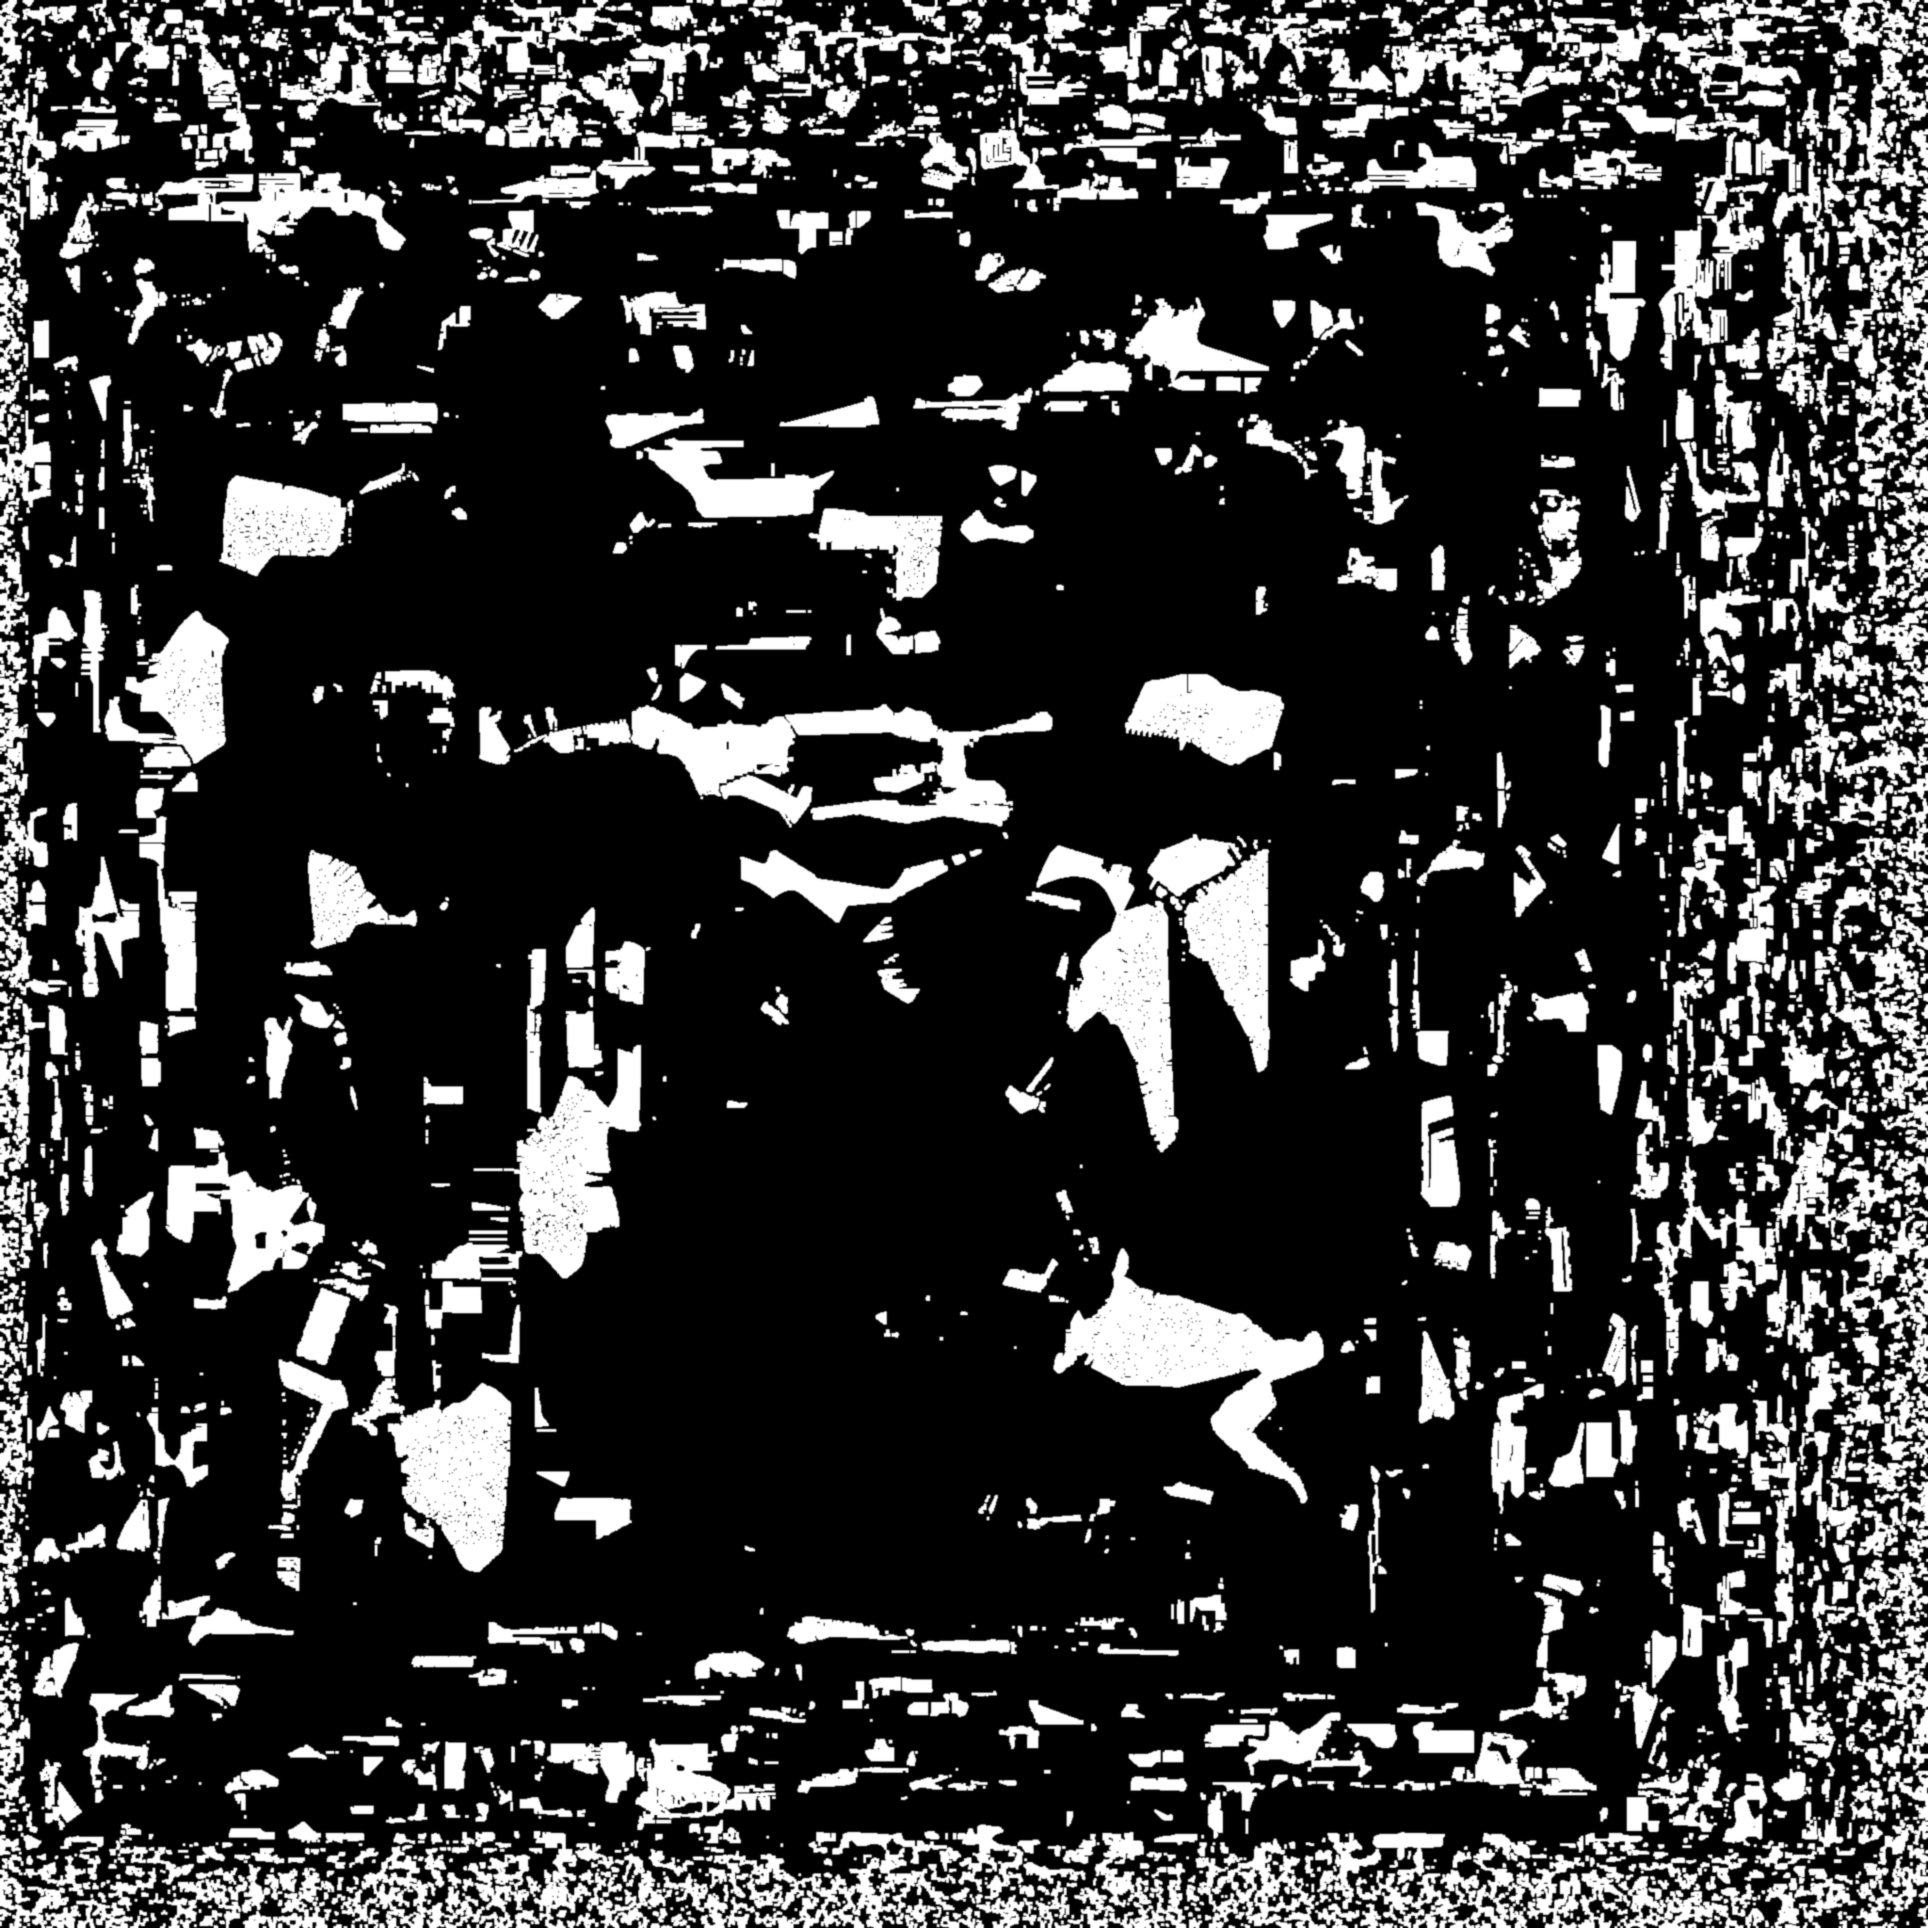
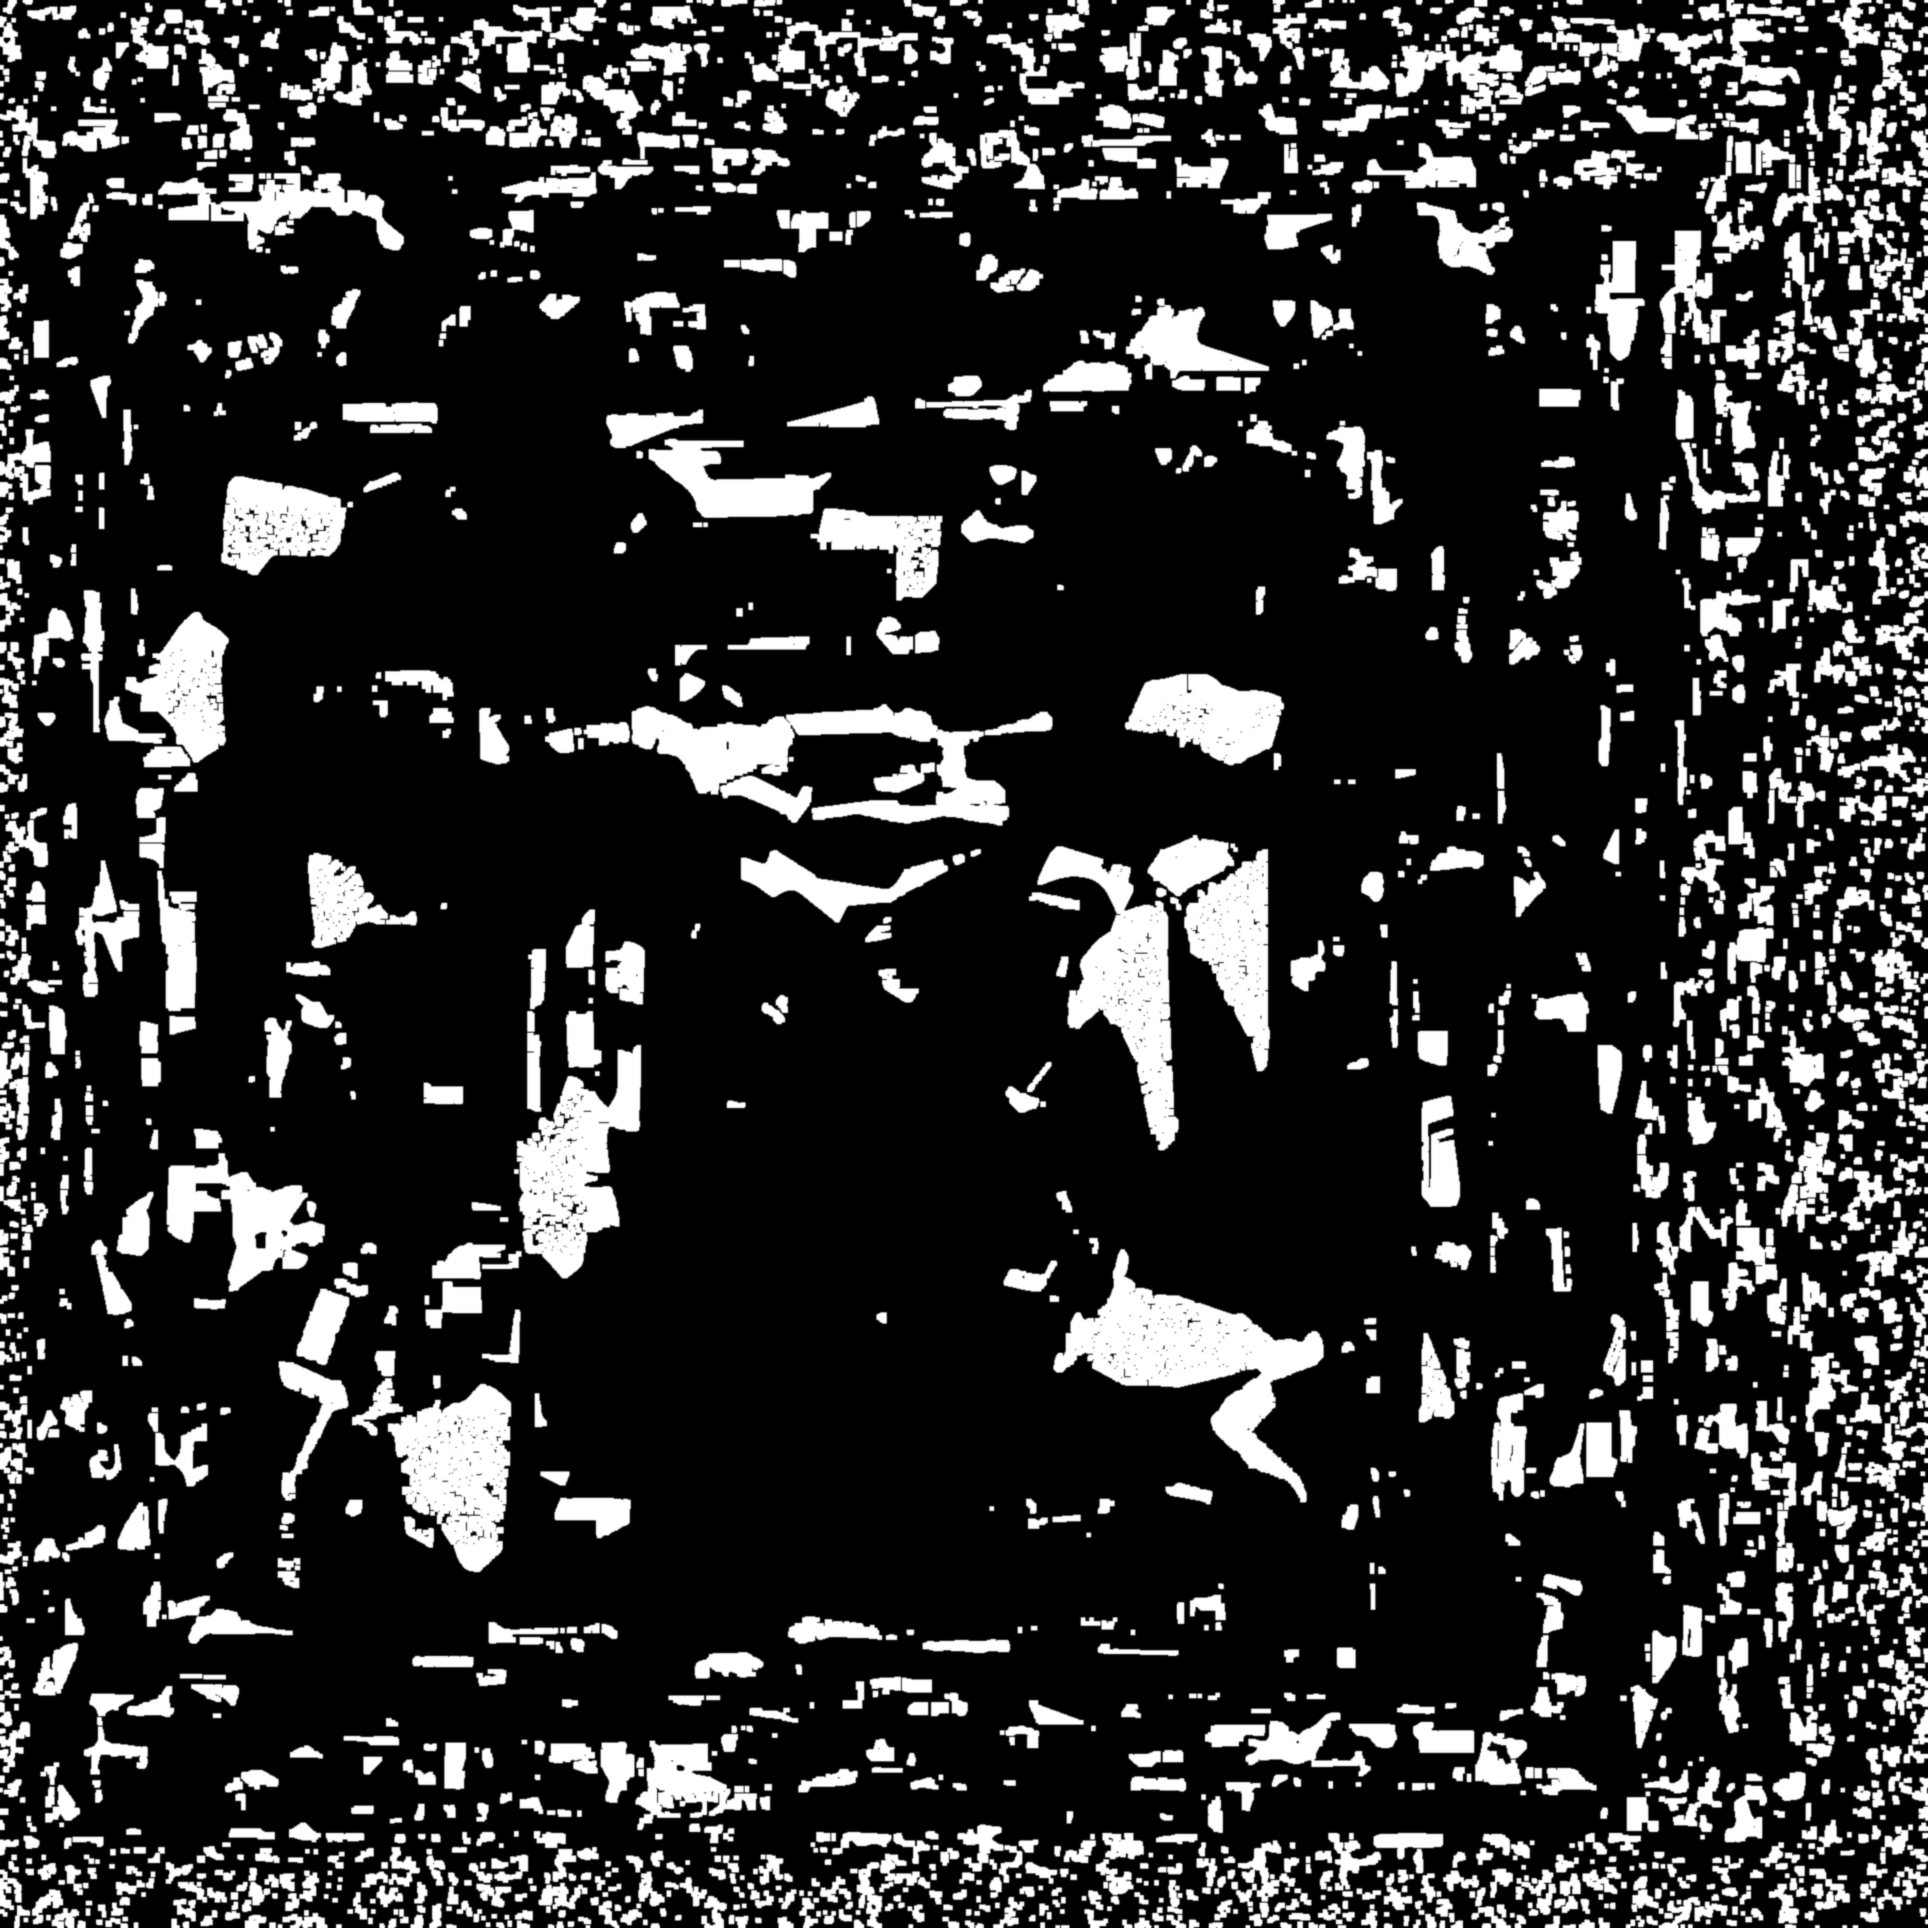
Clean up window glow and enlarge the police station
Stronger mask opening drops railings, the shader skips flat roofs and ledges,
and the station is scaled up with its sign over the compound gate.

Claude-Session: https://claude.ai/code/session_01LRvekBiu88ohufkwWL5E3T

diff --git a/tools/assets/generate.py b/tools/assets/generate.py
@@ -379,7 +379,7 @@ def make_window_emission(glb, dest):
     warm_lit = (value > 0.8) & (sat > 0.3) & (rgb[..., 0] > rgb[..., 2])
     mask = Image.fromarray(((dark | bluish | warm_lit) * 255).astype(np.uint8))
     # An opening drops thin dark lines (railings, cracks, seams) and keeps the panes.
-    mask = mask.filter(ImageFilter.MinFilter(3)).filter(ImageFilter.MaxFilter(3)).filter(ImageFilter.GaussianBlur(0.8))
+    mask = mask.filter(ImageFilter.MinFilter(5)).filter(ImageFilter.MaxFilter(5)).filter(ImageFilter.GaussianBlur(0.8))
     mask.save(dest, optimize=True)
     log(f"    window mask -> {dest.relative_to(ROOT)} ({np.asarray(mask).mean() / 2.55:.1f}% glass)")
 
